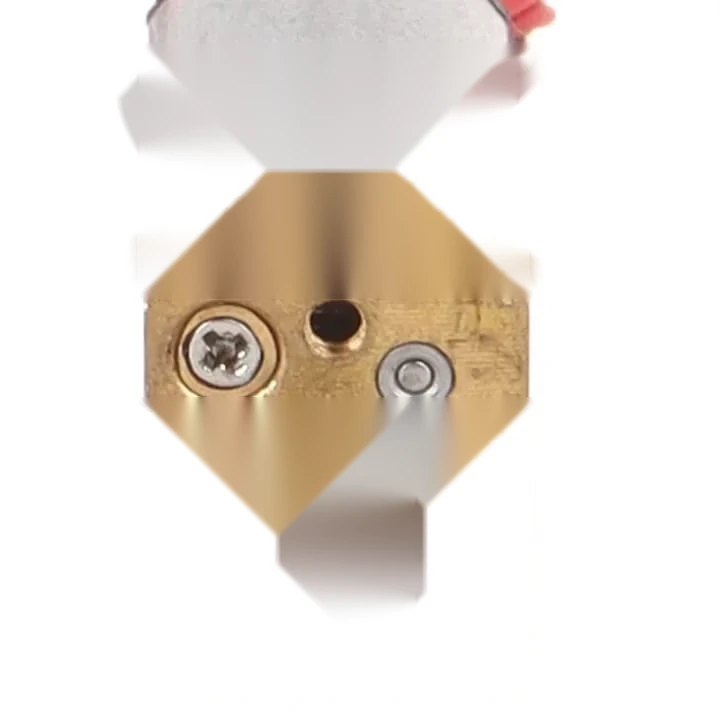
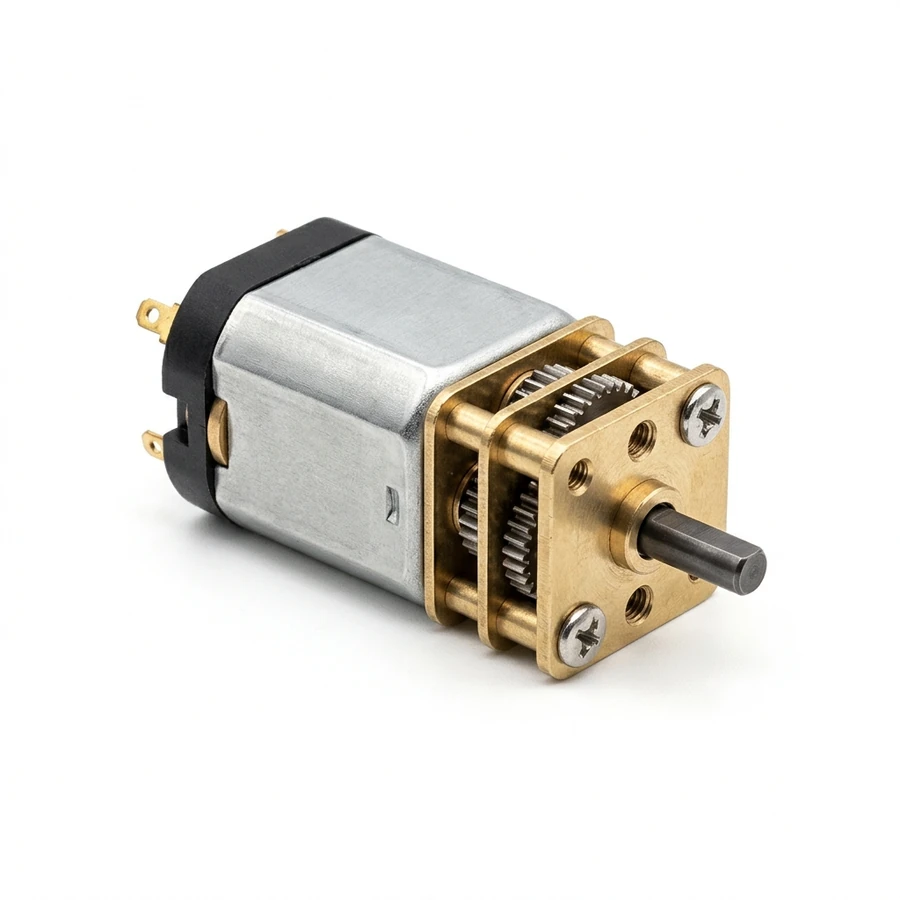
feat(catalog): list N20 DC 3V-6V Micro Metal Gear Motor at Rs 299 in Slot 2, add gallery support, and move 10A PWM controller to bottom

diff --git a/data/products.ts b/data/products.ts
@@ -7,6 +7,7 @@ export interface Product {
   category: string;
   tags: string[];
   image: string;
+  gallery?: string[];
   description: string;
   inStock: boolean;
   rating: string;
@@ -17,11 +18,11 @@ export interface Product {
 }
 
 export const CATEGORIES = [
-  { id: 'all', name: 'All Products', count: 171, icon: 'Cpu' },
+  { id: 'all', name: 'All Products', count: 172, icon: 'Cpu' },
   { id: 'boards', name: 'Microcontrollers & Boards', count: 28, icon: 'CircuitBoard', query: ['board', 'arduino', 'raspberry', 'stm', 'breakout', 'controller'] },
   { id: 'components', name: 'Electronic Components & ICs', count: 12, icon: 'Cpu', query: ['ic', 'sop', 'dip', 'transistor', 'diode', 'mosfet', 'oscillator'] },
   { id: 'sensors', name: 'Sensors & Displays', count: 34, icon: 'Activity', query: ['sensor', 'voltmeter', 'lcd', 'display', 'temperature', 'touch screen'] },
-  { id: 'robotics', name: 'Robotics & Motors', count: 11, icon: 'Bot', query: ['motor', 'speed controller', 'pwm', 'stepper', 'robotics'] },
+  { id: 'robotics', name: 'Robotics & Motors', count: 12, icon: 'Bot', query: ['motor', 'speed controller', 'pwm', 'stepper', 'robotics'] },
   { id: 'power', name: 'Power & Converters', count: 94, icon: 'Zap', query: ['boost converter', 'power supply', 'spot welder', 'charger', 'battery'] },
   { id: 'tools', name: 'Tools, Cables & Wires', count: 4, icon: 'Wrench', query: ['cable', 'wire', 'jumper', 'tape', 'strip', 'adapter', 'tool'] }
 ];
@@ -44,20 +45,25 @@ export const PRODUCTS: Product[] = [
     specs: {"Operating Voltage":"3.7V DC (1S LiPo compatible: 3.0V – 4.2V)","No-Load Speed":"53,000 RPM","Motor Type":"High-Efficiency Coreless (Hollow Cup) Micro DC Motor","Propeller Diameter":"75 mm (Includes CW & CCW pair)","Shaft Diameter":"1.0 mm","Lead Wires":"Color-coded flexible twisted silicone leads","Package Includes":"1 Pair (2 Motors + 2 Matching 75mm Propellers)","Applications":"Micro FPV Drones, Mini Quadcopters, RC Helicopters, DIY Flight Models"}
   },
   {
-    id: "15468298797422",
-    title: "10A PWM DC Motor Speed Controller (12V to 40V)",
-    handle: "10a-pwm-dc-motor-speed-controller-12v-to-40v",
-    price: 878,
-    comparePrice: 1148,
+    id: "15469000000150",
+    title: "N20 DC 3V–6V Micro Metal Gear Motor – High Torque, Low Noise, Durable Mini Gearbox for Robotics, DIY, and Electronics Projects",
+    handle: "n20-dc-3v-6v-micro-metal-gear-motor",
+    price: 299,
+    comparePrice: null,
     category: "Robotics & Motors",
-    tags: ["Modules and Motors","PWM","Speed Controller"],
-    image: "/products/product-15468298797422.webp",
-    description: "High-efficiency 10A PWM DC motor speed controller module with potentiometer and forward reverse switch capability. Smooth speed regulation without loss of torque.",
+    tags: ["N20","Micro Metal Gear Motor","DC Motor","Gearbox","Robotics","DIY","3V-6V"],
+    image: "/products/product-15469000000150.webp",
+    gallery: [
+      "/products/product-15469000000150.webp",
+      "/products/product-15469000000151.webp",
+      "/products/product-15469000000152.webp"
+    ],
+    description: "High-torque, low-noise N20 (GA12-N20) micro DC 3V–6V metal gear motor featuring a compact 24mm body, durable all-metal spur reduction gearbox with rigid brass end plates, flat 3mm D-cut output shaft (3.8mm length), and dual M1.6 front mounting holes. Ideal for micro robotics, smart locks, and DIY electronics projects.",
     inStock: true,
-    rating: "4.8",
-    reviewsCount: 42,
-    sku: "ATB-MOT-PWM10",
-    specs: {"Operating Voltage":"DC 12V - 40V","Max Current":"10A Continuous","PWM Frequency":"13 kHz","Duty Cycle":"10% - 100%"}
+    rating: "5.0",
+    reviewsCount: 0,
+    sku: "ATB-MOT-N20-3V6V",
+    specs: {"Operating Voltage":"3V – 6V DC","Motor Model":"GA12-N20","Body Dimensions":"24 mm length × 12 mm × 9 mm","Output Shaft":"3 mm D-Shaft (3.8 mm length)","Mounting Pattern":"Dual M1.6 threaded holes","Gearbox Material":"Full Metal Gears & Brass Plates"}
   },
   {
     id: "15469000000154",
@@ -2750,57 +2756,6 @@ export const PRODUCTS: Product[] = [
     specs: {"Core Module":"ESP-WROOM-32","USB Interface":"Silicon Labs CP2102 Micro-USB","Pin Count":"30 Pins (2.54mm pitch)","Wireless Connectivity":"2.4 GHz Wi-Fi (802.11 b/g/n) + Bluetooth v4.2 BR/EDR & BLE","Buttons":"EN (Reset) & BOOT pushbuttons"}
   },
   {
-    id: "15469000000150",
-    title: "GA12-N20 Micro Metal Gear Motor with 3mm D-Shaft",
-    handle: "ga12-n20-micro-metal-gear-motor-3mm-d-shaft",
-    price: 0,
-    comparePrice: null,
-    category: "Robotics & Motors",
-    tags: ["N20","Motor","Gear Motor","GA12-N20","Robotics","DC Motor"],
-    image: "/products/product-15469000000150.webp",
-    description: "High-precision GA12-N20 micro DC motor featuring an integrated all-metal reduction gearbox, flat 3mm D-cut drive shaft, and dual M1.6 front faceplate mounting holes for miniature robotics, smart locks, and automation projects.",
-    inStock: false,
-    isDraft: true,
-    rating: "5.0",
-    reviewsCount: 0,
-    sku: "ATB-MOT-N20-D3",
-    specs: {"Motor Model":"GA12-N20","Shaft Profile":"3mm D-Shaft","Gearbox Structure":"All-Metal Spur Gearhead","Mounting Pattern":"Dual M1.6 threaded faceplate holes","Gearbox Face":"12 mm x 9 mm"}
-  },
-  {
-    id: "15469000000151",
-    title: "GA12-N20 High-Torque Miniature All-Metal Gearbox DC Motor",
-    handle: "ga12-n20-high-torque-miniature-all-metal-gearbox-dc-motor",
-    price: 0,
-    comparePrice: null,
-    category: "Robotics & Motors",
-    tags: ["N20","Gearbox","DC Motor","Robotics","Micro Motor"],
-    image: "/products/product-15469000000151.webp",
-    description: "Rugged GA12-N20 sub-miniature DC gearmotor built with a multi-stage all-metal gear train supported between rigid brass end plates. Designed for high torque output, wear resistance, and long operational life in compact robotic chassis.",
-    inStock: false,
-    isDraft: true,
-    rating: "5.0",
-    reviewsCount: 0,
-    sku: "ATB-MOT-N20-GB",
-    specs: {"Gear Construction":"Solid steel and brass spur gears","Frame Material":"Brass end plates with steel spacers","Shaft Diameter":"3 mm D-Cut","Motor Type":"N20 DC motor"}
-  },
-  {
-    id: "15469000000152",
-    title: "GA12-N20 Micro Metal Gear Motor 24mm (M1.6 Mounting, 3mm D-Shaft)",
-    handle: "ga12-n20-micro-metal-gear-motor-24mm-m16-mount",
-    price: 0,
-    comparePrice: null,
-    category: "Robotics & Motors",
-    tags: ["N20","Micro Metal Gear Motor","24mm","M1.6","Motor","Robotics"],
-    image: "/products/product-15469000000152.webp",
-    description: "Standard 24mm GA12-N20 micro DC gearmotor with verified physical dimensions: 24mm overall length, 12mm motor body height, 3mm D-shaft with 3.8mm shaft extension, 12mm x 9mm gearbox profile, and M1.6 mounting threads.",
-    inStock: false,
-    isDraft: true,
-    rating: "5.0",
-    reviewsCount: 0,
-    sku: "ATB-MOT-N20-24MM",
-    specs: {"Total Length":"24 mm","Motor Body Height":"12 mm","Output Shaft Diameter":"3 mm (D-Shape)","Output Shaft Length":"3.8 mm","Gearbox Profile":"12 mm x 9 mm","Mounting Screws":"M1.6"}
-  },
-  {
     id: "15468320293230",
     title: "12-Port Server Power Supply Breakout Board",
     handle: "12-port-server-power-supply-breakout-board",
@@ -2847,6 +2802,22 @@ export const PRODUCTS: Product[] = [
     reviewsCount: 29,
     sku: "ATB-SPT-NYD01",
     specs: {"Current Capacity":"100A Thyristor","Display":"Dual Digital LED","Time Adjust":"1-50 cycles","Current Adjust":"30-99%"}
+  },
+  {
+    id: "15468298797422",
+    title: "10A PWM DC Motor Speed Controller (12V to 40V)",
+    handle: "10a-pwm-dc-motor-speed-controller-12v-to-40v",
+    price: 878,
+    comparePrice: 1148,
+    category: "Robotics & Motors",
+    tags: ["Modules and Motors","PWM","Speed Controller"],
+    image: "/products/product-15468298797422.webp",
+    description: "High-efficiency 10A PWM DC motor speed controller module with potentiometer and forward reverse switch capability. Smooth speed regulation without loss of torque.",
+    inStock: true,
+    rating: "4.8",
+    reviewsCount: 42,
+    sku: "ATB-MOT-PWM10",
+    specs: {"Operating Voltage":"DC 12V - 40V","Max Current":"10A Continuous","PWM Frequency":"13 kHz","Duty Cycle":"10% - 100%"}
   }
 ];
 

diff --git a/app/products/[id]/page.tsx b/app/products/[id]/page.tsx
@@ -169,23 +169,44 @@ export default async function ProductDetailPage({ params }: ProductPageProps) {
             <div className="grid grid-cols-1 lg:grid-cols-12 gap-8 lg:gap-12 items-start">
               
               {/* Product Image Column */}
-              <div className="lg:col-span-5 bg-white rounded-2xl border border-slate-100 p-6 flex items-center justify-center aspect-square relative shadow-xs">
-                <Image
-                  src={product.image}
-                  alt={product.title}
-                  fill
-                  priority
-                  sizes="(max-width: 1024px) 100vw, 500px"
-                  className="object-contain p-4"
-                />
-                <span className="absolute top-4 left-4 bg-emerald-500 text-white text-[10px] font-bold px-2.5 py-1 rounded-full flex items-center gap-1 shadow-xs">
-                  <span className="w-1.5 h-1.5 rounded-full bg-white animate-pulse"></span>
-                  In Stock (Lahore)
-                </span>
-                {product.comparePrice && (
-                  <span className="absolute top-4 right-4 bg-rose-500 text-white text-[10px] font-black px-2.5 py-1 rounded-full shadow-xs">
-                    SAVE Rs {(product.comparePrice - product.price).toLocaleString()}
+              <div className="lg:col-span-5 space-y-3">
+                <div className="bg-white rounded-2xl border border-slate-100 p-6 flex items-center justify-center aspect-square relative shadow-xs">
+                  <Image
+                    src={product.image}
+                    alt={product.title}
+                    fill
+                    priority
+                    sizes="(max-width: 1024px) 100vw, 500px"
+                    className="object-contain p-4"
+                  />
+                  <span className="absolute top-4 left-4 bg-emerald-500 text-white text-[10px] font-bold px-2.5 py-1 rounded-full flex items-center gap-1 shadow-xs">
+                    <span className="w-1.5 h-1.5 rounded-full bg-white animate-pulse"></span>
+                    In Stock (Lahore)
                   </span>
+                  {product.comparePrice && (
+                    <span className="absolute top-4 right-4 bg-rose-500 text-white text-[10px] font-black px-2.5 py-1 rounded-full shadow-xs">
+                      SAVE Rs {(product.comparePrice - product.price).toLocaleString()}
+                    </span>
+                  )}
+                </div>
+
+                {product.gallery && product.gallery.length > 1 && (
+                  <div className="grid grid-cols-3 gap-2.5">
+                    {product.gallery.map((imgUrl, idx) => (
+                      <div
+                        key={imgUrl}
+                        className="relative aspect-square rounded-xl border border-slate-200 bg-white overflow-hidden p-1.5 shadow-2xs"
+                      >
+                        <Image
+                          src={imgUrl}
+                          alt={`${product.title} view ${idx + 1}`}
+                          fill
+                          sizes="150px"
+                          className="object-contain p-1"
+                        />
+                      </div>
+                    ))}
+                  </div>
                 )}
               </div>
 

diff --git a/components/FlashSaleSection.tsx b/components/FlashSaleSection.tsx
@@ -10,8 +10,8 @@ interface FlashSaleProps {
 }
 
 export default function FlashSaleSection({ onQuickOrder }: FlashSaleProps) {
-  // Select top products with discount / comparePrice
-  const flashProducts = PRODUCTS.filter((p) => p.comparePrice && p.comparePrice > p.price).slice(0, 4);
+  // Select top 4 active featured/flash-sale products
+  const flashProducts = PRODUCTS.filter((p) => !p.isDraft).slice(0, 4);
 
   return (
     <section id="flash-sale" className="py-12 bg-white border-b border-slate-200">
@@ -61,9 +61,13 @@ export default function FlashSaleSection({ onQuickOrder }: FlashSaleProps) {
               >
                 {/* Badges container */}
                 <div className="absolute top-3 left-3 right-3 flex items-center justify-between z-10 pointer-events-none">
-                  {discountPct && (
+                  {discountPct ? (
                     <span className="bg-rose-600 text-white text-[11px] font-black px-2.5 py-0.5 rounded-full shadow-sm">
                       SAVE {discountPct}%
+                    </span>
+                  ) : (
+                    <span className="bg-slate-900/80 backdrop-blur-xs text-white text-[10px] font-bold px-2.5 py-0.5 rounded-full shadow-sm">
+                      New Arrival
                     </span>
                   )}
                   <span className="bg-emerald-50 text-emerald-700 border border-emerald-200 text-[10px] font-bold px-2 py-0.5 rounded-full flex items-center gap-1 shadow-2xs">
